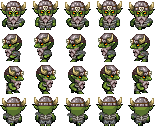
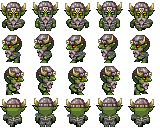
Render Skeleton and Goblin entities correctly

diff --git a/src/com/timothyaveni/apcsfinal/client/Entity.java b/src/com/timothyaveni/apcsfinal/client/Entity.java
@@ -75,17 +75,18 @@ public abstract class Entity {
 	public BufferedImage getImage(long frame) {
 		if (!moving) {
 			if (startedAttack) {
-				currentSubImage = image.getSubimage((int) (4 * 32), getLocation().getDirection() * 48, this.getWidth(),
+				currentSubImage = image.getSubimage((int) (4 * getWidth()), getLocation().getDirection() * getHeight(), this.getWidth(),
 						this.getHeight());
 			} else {
-				currentSubImage = image.getSubimage(0, getLocation().getDirection() * 48, this.getWidth(),
+				System.out.println(this.getType());
+				currentSubImage = image.getSubimage(0, getLocation().getDirection() * getHeight(), this.getWidth(),
 						this.getHeight());
 				currentFrameOffset = 1;
 			}
 			return currentSubImage;
 
 		} else if (frame % 4 == 0 || this.getLocation().getDirection() != lastDirection) {
-			currentSubImage = image.getSubimage((int) (currentFrameOffset * 32), getLocation().getDirection() * 48,
+			currentSubImage = image.getSubimage((int) (currentFrameOffset * getWidth()), getLocation().getDirection() * getHeight(),
 					this.getWidth(), this.getHeight());
 			lastDirection = this.getLocation().getDirection();
 			currentFrameOffset = (currentFrameOffset + 1) % 4;

diff --git a/src/com/timothyaveni/apcsfinal/server/GoblinEnemy.java b/src/com/timothyaveni/apcsfinal/server/GoblinEnemy.java
@@ -86,7 +86,7 @@ public class GoblinEnemy extends Entity implements EnemyAI {
 
 	@Override
 	public int getHeight() {
-		return 48;
+		return 32;
 	}
 
 	@Override
@@ -96,7 +96,7 @@ public class GoblinEnemy extends Entity implements EnemyAI {
 
 	@Override
 	public String getFileLocation() {
-		return "Healer.png"; // TODO: change
+		return "Goblin.png";
 	}
 
 	@Override

diff --git a/src/com/timothyaveni/apcsfinal/server/SkeletonEnemy.java b/src/com/timothyaveni/apcsfinal/server/SkeletonEnemy.java
@@ -95,7 +95,7 @@ public class SkeletonEnemy extends Entity implements EnemyAI {
 
 	@Override
 	public String getFileLocation() {
-		return "Rogue.png"; // TODO: change
+		return "Skeleton.png";
 	}
 
 	@Override
